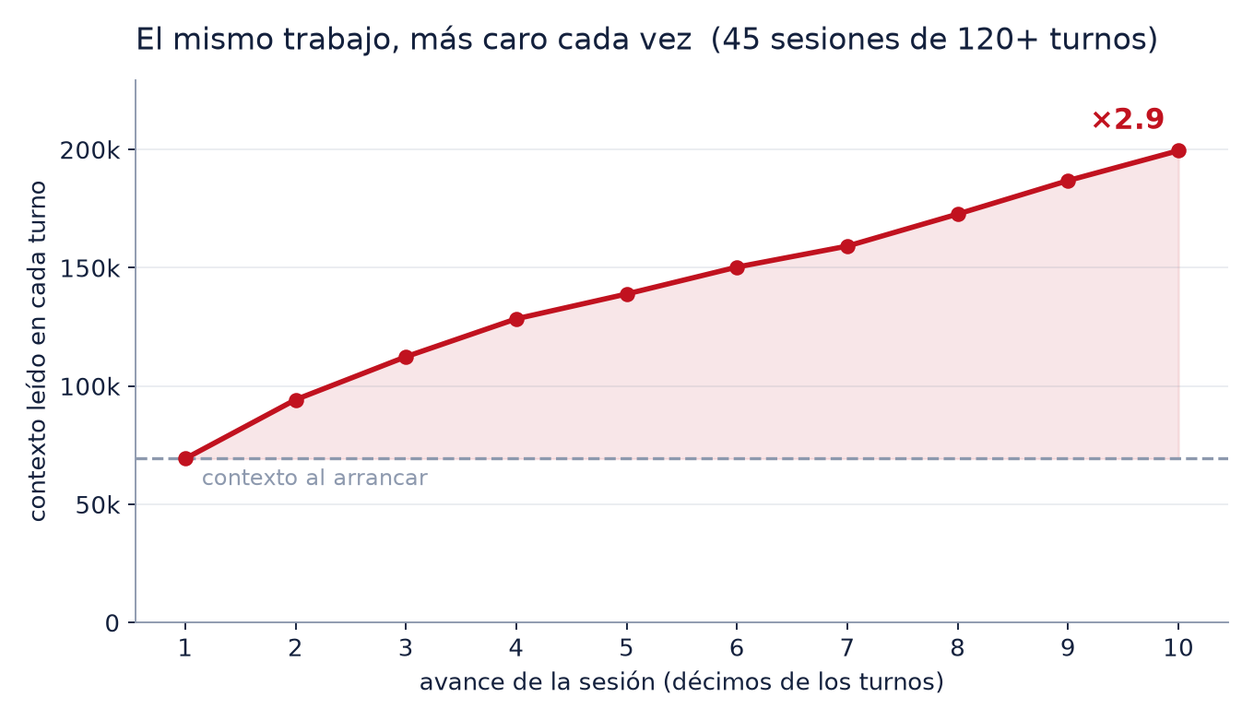
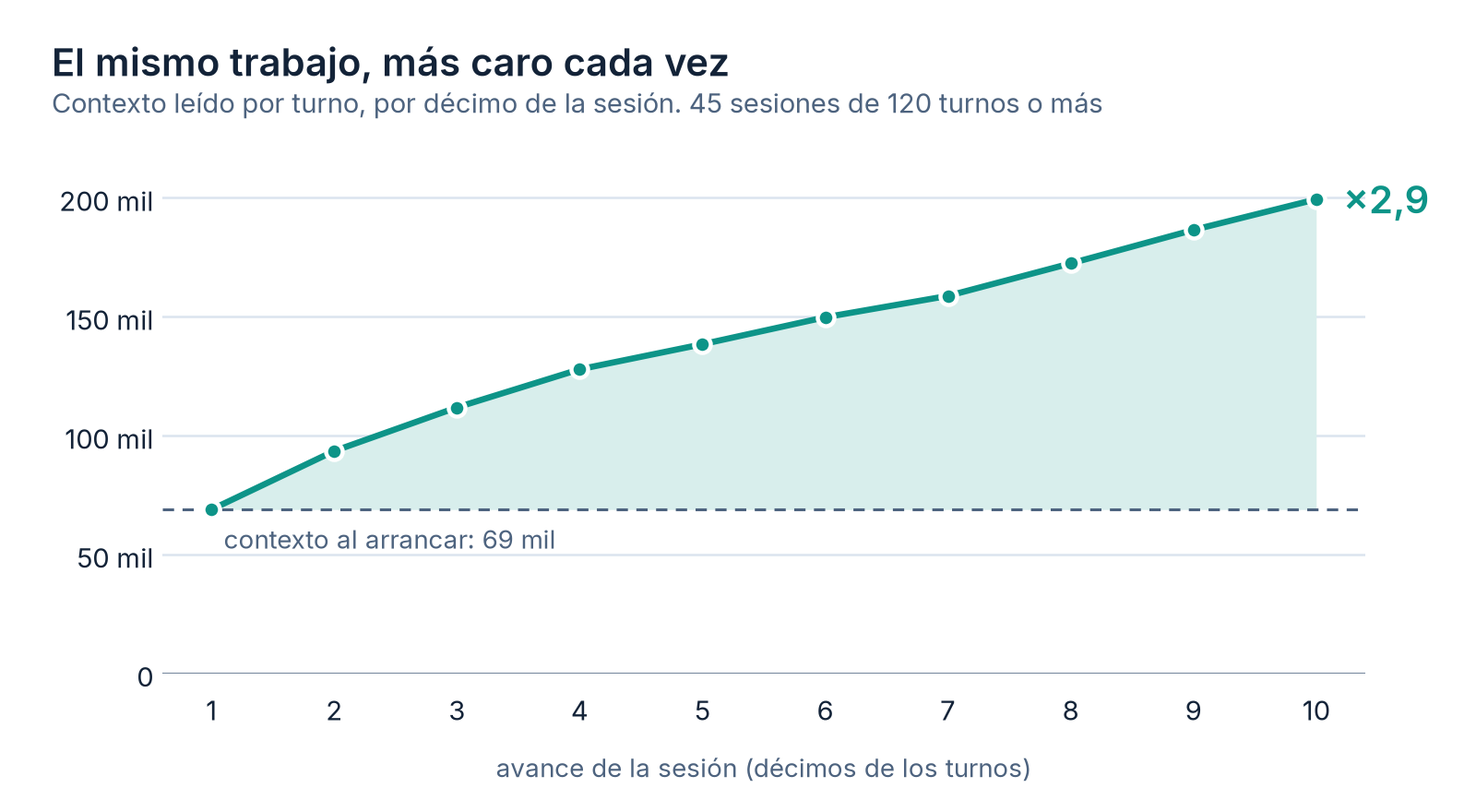
Rehace los graficos de economia de contexto y corrige lo que se lee sin el recuadro
Los cuatro graficos pasan al estilo de la segunda parte (Inter, coma decimal, version oscura
con <picture>). Los transcripts de agosto ya no existen: curva y deriva se digitalizaron desde
los PNG publicados (313 puntos; su ajuste da 1,206 y R2 0,974) y la procedencia queda en
_graficos/economia_contexto_datos.json.

Texto: el recuadro de correccion ya no dice que ninguna conclusion cambio, la respuesta sobre
cortar sesiones remite a la medicion de septiembre, las descripciones para buscadores y redes
dejan de citar el total inflado y se corrige el alt del grafico de arrastre.

diff --git a/articulos/economia-de-contexto/index.html b/articulos/economia-de-contexto/index.html
@@ -4,9 +4,9 @@
 <meta charset="utf-8">
 <meta name="viewport" content="width=device-width, initial-scale=1">
 <title>Lo caro de un agente no es lo que hace, es lo que recuerda | Tomás Alcalde</title>
-<meta name="description" content="313 sesiones, 2.356 millones de tokens: el 94 % del gasto es releer contexto. Cómo reducir el contexto y ahorrar tokens sin perder memoria.">
+<meta name="description" content="Cuatro meses de trabajo real con un agente de código: más del 90 % del gasto es releer contexto ya acumulado. Cómo reducirlo sin perder memoria.">
 <meta property="og:title" content="Lo caro de un agente no es lo que hace, es lo que recuerda">
-<meta property="og:description" content="313 sesiones, 2.356 millones de tokens: el 94 % del gasto es releer contexto. Cómo reducir el contexto y ahorrar tokens sin perder memoria.">
+<meta property="og:description" content="Cuatro meses de trabajo real con un agente de código: más del 90 % del gasto es releer contexto ya acumulado. Cómo reducirlo sin perder memoria.">
 <meta property="og:type" content="article">
 <link rel="alternate" hreflang="es" href="https://talcaldeg.github.io/articulos/economia-de-contexto/">
 <link rel="alternate" hreflang="en" href="https://talcaldeg.github.io/articulos/context-economy/">
@@ -23,7 +23,7 @@
 <meta property="article:author" content="Tomás Alcalde">
 <meta name="twitter:card" content="summary_large_image">
 <meta name="twitter:title" content="Lo caro de un agente no es lo que hace, es lo que recuerda">
-<meta name="twitter:description" content="313 sesiones y 2.356 millones de tokens de trabajo real con un agente de código: el 94 % del gasto es releer contexto ya acumulado.">
+<meta name="twitter:description" content="Cuatro meses de trabajo real con un agente de código: más del 90 % del gasto es releer contexto ya acumulado.">
 <meta name="twitter:image" content="https://talcaldeg.github.io/articulos/economia-de-contexto/img/reparto.png">
 <link rel="icon" href="/favicon.svg" type="image/svg+xml">
 <link rel="apple-touch-icon" href="/apple-touch-icon.png">
@@ -33,7 +33,7 @@
  "@context": "https://schema.org",
  "@type": "TechArticle",
  "headline": "Lo caro de un agente no es lo que hace, es lo que recuerda",
- "description": "313 sesiones y 2.356 millones de tokens de trabajo real con un agente de código: el 94 % del gasto es releer contexto ya acumulado.",
+ "description": "Cuatro meses de trabajo real con un agente de código: más del 90 % del gasto es releer contexto ya acumulado.",
  "inLanguage": "es",
  "url": "https://talcaldeg.github.io/articulos/economia-de-contexto/",
  "mainEntityOfPage": {
@@ -91,7 +91,7 @@
    "name": "¿Conviene cortar la sesión y abrir otra, o seguir en la misma?",
    "acceptedAnswer": {
     "@type": "Answer",
-    "text": "Conviene cortar. El costo por sesión crece con los turnos elevado a 1,20 (ajuste sobre 313 sesiones, R² 0,97), así que partir una sesión larga en diez ahorra alrededor de un tercio. Ojo con la regla que circula de que el crecimiento es cuadrático: con exponente 2 el ahorro daría 90 %, y contra datos reales el exponente no da 2."
+    "text": "Depende de cuánto duren sus sesiones. El costo por sesión crece con los turnos elevado a 1,20 (ajuste sobre 313 sesiones, R² 0,97): con sesiones de cientos de turnos, como las de esta medición, partirlas ahorraba alrededor de un tercio. Con sesiones ya cortas la cuenta se da vuelta, porque cada sesión nueva vuelve a escribir en caché el prefijo de instrucciones: en la medición de septiembre, cortar a mitad de tarea salió entre -2,7 % y -0,6 %. Ojo también con la regla que circula de que el crecimiento es cuadrático: con exponente 2 el ahorro daría 90 %, y contra datos reales el exponente no da 2."
    }
   },
   {
@@ -99,7 +99,7 @@
    "name": "¿El caché de prompts no resuelve el problema?",
    "acceptedAnswer": {
     "@type": "Answer",
-    "text": "Lo abarata, no lo elimina. En la medición, el 94 % de los 2.356 millones de tokens es cache_read: contexto que ya estaba ahí y se vuelve a leer en cada turno. El caché baja el precio unitario, pero no cambia que la cantidad crece sola mientras usted trabaja."
+    "text": "Lo abarata, no lo elimina. En la medición, el 94 % de los tokens medidos es cache_read: contexto que ya estaba ahí y se vuelve a leer en cada turno. El caché baja el precio unitario, pero no cambia que la cantidad crece sola mientras usted trabaja."
    }
   },
   {
@@ -167,8 +167,8 @@
        padding:1px 6px; font-size:14.5px; font-family:ui-monospace,SFMono-Regular,Menlo,Consolas,monospace}
 
   figure{margin:30px 0 34px}
-  figure img{width:100%; display:block; background:#fff; border:1px solid var(--line);
-             border-radius:12px; padding:10px}
+  figure img{width:100%; height:auto; display:block; background:var(--card); border:1px solid var(--line);
+             border-radius:12px}
   figcaption{color:var(--muted); font-size:14px; margin-top:10px; line-height:1.55}
 
   .destacado{background:var(--card); border:1px solid var(--line); border-left:3px solid var(--accent);
@@ -210,8 +210,10 @@
 <div class="destacado"><p><strong>Corrección, septiembre de 2026.</strong> Los scripts con que
 medí este artículo contaban cada llamada al modelo cerca de 1,9 veces. Con el conteo corregido,
 la misma ventana da 294 sesiones, 1.212 millones de tokens, 96 % de relectura y un exponente de
-1,19. Los totales se parten por la mitad; las conclusiones no cambian. El detalle, y lo que
-medí después, está en <a href="../palancas-chicas/">la segunda parte</a>.</p></div>
+1,19. Los totales se parten por la mitad y el diagnóstico se mantiene. Lo que sí cambió fue la
+recomendación de cortar sesiones: un mes después, con sesiones ya cortas, cortar a mitad de tarea
+salió negativo. El detalle, y lo que medí después, está en <a href="../palancas-chicas/">la segunda
+parte</a>.</p></div>
 
 <p>La cuenta empezó a doler antes de que yo entendiera por qué. El trabajo era el mismo de
 siempre: consultas a una base de producción, reportes, algo de automatización, correo. Nada
@@ -238,8 +240,11 @@ De 2.356 millones de tokens, lo que el modelo escribió (el código, las respues
 análisis) fueron 19 millones. Menos del uno por ciento.</p>
 
 <figure>
-  <img src="img/reparto.png" alt="Barra apilada: 94,4 % releer contexto acumulado, 4,8 % contexto nuevo, 0,8 % output.">
-  <figcaption>Los 2.356 millones de tokens repartidos por tipo. La franja roja es
+  <picture>
+    <source srcset="img/reparto-oscuro.png" media="(prefers-color-scheme: dark)">
+    <img src="img/reparto.png" width="1600" height="550" loading="lazy" alt="Barra apilada: 94,4 % releer contexto acumulado, 4,8 % contexto nuevo, 0,8 % output.">
+  </picture>
+  <figcaption>Los 2.356 millones de tokens repartidos por tipo. La franja en color es
   <code>cache_read</code>: contexto que ya estaba ahí y se vuelve a leer en cada turno.</figcaption>
 </figure>
 
@@ -255,7 +260,10 @@ que la cantidad crece sola mientras usted trabaja.</p>
 partí cada una en diez tramos iguales y promedié cuánto contexto leyó el modelo en cada tramo.</p>
 
 <figure>
-  <img src="img/deriva.png" alt="Curva creciente: el contexto por turno pasa de 69k en el primer décimo a 200k en el último.">
+  <picture>
+    <source srcset="img/deriva-oscuro.png" media="(prefers-color-scheme: dark)">
+    <img src="img/deriva.png" width="1600" height="880" loading="lazy" alt="Curva creciente: el contexto por turno pasa de 69 mil tokens en el primer décimo a 200 mil en el último.">
+  </picture>
   <figcaption>Contexto leído en cada turno, según el avance de la sesión. Promedio de 45 sesiones
   largas. El último tramo cuesta 2,9 veces lo que el primero, haciendo el mismo tipo de trabajo.</figcaption>
 </figure>
@@ -277,7 +285,10 @@ Una sesión de 300 turnos debería costar cinco veces lo que cuestan cuatro sesi
 <p>Al ajustar la curva contra las 313 sesiones reales, el exponente no dio 2. Dio 1,20.</p>
 
 <figure>
-  <img src="img/curva.png" alt="Dispersión log-log de tokens por sesión contra turnos, con ajuste de exponente 1,20 y R² 0,97.">
+  <picture>
+    <source srcset="img/curva-oscuro.png" media="(prefers-color-scheme: dark)">
+    <img src="img/curva.png" width="1600" height="1080" loading="lazy" alt="Dispersión log-log de tokens por sesión contra turnos, con ajuste de exponente 1,20 y R² 0,97.">
+  </picture>
   <figcaption>Cada punto es una sesión. En escala logarítmica una potencia se ve como una recta:
   la pendiente es el exponente. Ajuste sobre 313 sesiones, R² 0,97.</figcaption>
 </figure>
@@ -312,7 +323,10 @@ llamo <strong>arrastre</strong>, y ordenar por esa columna en vez de por tamaño
 completo el ranking de culpables.</p>
 
 <figure>
-  <img src="img/arrastre.png" alt="Barras horizontales: leer archivos enteros 54 %, comandos de shell 28 %, conectores 6 % y 5 %, resto 3 %, búsqueda filtrada 2 %.">
+  <picture>
+    <source srcset="img/arrastre-oscuro.png" media="(prefers-color-scheme: dark)">
+    <img src="img/arrastre.png" width="1600" height="780" loading="lazy" alt="Barras horizontales: leer archivos enteros 54 %, comandos de shell 28 %, web y otros conectores 7 %, conectores de correo y documentos 6 %, resto 3 %, búsqueda filtrada 2 %.">
+  </picture>
   <figcaption>380 millones de tokens de arrastre en la ventana medida, repartidos por tipo de llamada.
   Leer archivos completos se lleva más de la mitad.</figcaption>
 </figure>
@@ -421,10 +435,10 @@ instrucciones. Se trata de decidir, con criterio y a veces con dolor, qué es lo
 <p>Cuatro medidas, en orden de cuánto rindieron: abrir una sesión nueva al cambiar de tema; mandar las salidas grandes a un archivo en vez de a la conversación; buscar con <code>grep</code> y leer el rango exacto en lugar de abrir archivos completos; y filtrar lo que entra al contexto <em>antes</em> de traerlo, no resumirlo después. Reemplazar un conector de correo por un lector local filtrado bajó de 2.730 a 258 tokens el mismo dato en pantalla.</p>
 
 <h3>¿Conviene cortar la sesión y abrir otra, o seguir en la misma?</h3>
-<p>Conviene cortar. El costo por sesión crece con los turnos elevado a 1,20 (ajuste sobre 313 sesiones, R² 0,97), así que partir una sesión larga en diez ahorra alrededor de un tercio. Ojo con la regla que circula de que el crecimiento es cuadrático: con exponente 2 el ahorro daría 90 %, y contra datos reales el exponente no da 2.</p>
+<p>Depende de cuánto duren sus sesiones. El costo por sesión crece con los turnos elevado a 1,20 (ajuste sobre 313 sesiones, R² 0,97): con sesiones de cientos de turnos, como las de esta medición, partirlas ahorraba alrededor de un tercio. Con sesiones ya cortas la cuenta se da vuelta, porque cada sesión nueva vuelve a escribir en caché el prefijo de instrucciones: en <a href="../palancas-chicas/">la medición de septiembre</a>, cortar a mitad de tarea salió entre -2,7 % y -0,6 %. Ojo también con la regla que circula de que el crecimiento es cuadrático: con exponente 2 el ahorro daría 90 %, y contra datos reales el exponente no da 2.</p>
 
 <h3>¿El caché de prompts no resuelve el problema?</h3>
-<p>Lo abarata, no lo elimina. En la medición, el 94 % de los 2.356 millones de tokens es <code>cache_read</code>: contexto que ya estaba ahí y se vuelve a leer en cada turno. El caché baja el precio unitario, pero no cambia que la cantidad crece sola mientras usted trabaja.</p>
+<p>Lo abarata, no lo elimina. En la medición, el 94 % de los tokens medidos es <code>cache_read</code>: contexto que ya estaba ahí y se vuelve a leer en cada turno. El caché baja el precio unitario, pero no cambia que la cantidad crece sola mientras usted trabaja.</p>
 
 <h3>¿Los archivos de memoria del agente ayudan o encarecen?</h3>
 <p>Ambas cosas, y hay que medirlo. Leer archivos completos se lleva el 54 % del arrastre, y buena parte no eran archivos de código sino las notas de memoria del propio agente: cada vez que una se vuelve relevante se carga entera, y las que habían crecido sin control pasaban de 9 mil tokens cada una. Conviene partirlas en secciones y leer solo la que sirve.</p>

diff --git a/articulos/context-economy/index.html b/articulos/context-economy/index.html
@@ -4,9 +4,9 @@
 <meta charset="utf-8">
 <meta name="viewport" content="width=device-width, initial-scale=1">
 <title>What makes an agent expensive is not what it does, it is what it remembers | Tomás Alcalde</title>
-<meta name="description" content="313 sessions and 2.36 billion tokens of real work with a coding agent: 94 % of the spend is re-reading context that is already there. The numbers, the charts and the pattern that cuts it.">
+<meta name="description" content="Four months of real work with a coding agent: over 90 % of the spend is re-reading context that is already there. The numbers, the charts and the pattern that cuts it.">
 <meta property="og:title" content="What makes an agent expensive is not what it does, it is what it remembers">
-<meta property="og:description" content="313 sessions and 2.36 billion tokens of real work: 94 % of the spend is re-reading context that is already there.">
+<meta property="og:description" content="Four months of real work with a coding agent: over 90 % of the spend is re-reading context that is already there.">
 <meta property="og:type" content="article">
 <link rel="alternate" hreflang="es" href="https://talcaldeg.github.io/articulos/economia-de-contexto/">
 <link rel="alternate" hreflang="en" href="https://talcaldeg.github.io/articulos/context-economy/">
@@ -23,7 +23,7 @@
 <meta property="article:author" content="Tomás Alcalde">
 <meta name="twitter:card" content="summary_large_image">
 <meta name="twitter:title" content="What makes an agent expensive is not what it does, it is what it remembers">
-<meta name="twitter:description" content="313 sessions and 2.36 billion tokens of real work with a coding agent: 94 % of the spend is re-reading context that is already there.">
+<meta name="twitter:description" content="Four months of real work with a coding agent: over 90 % of the spend is re-reading context that is already there.">
 <meta name="twitter:image" content="https://talcaldeg.github.io/articulos/context-economy/img/reparto.png">
 <link rel="icon" href="/favicon.svg" type="image/svg+xml">
 <link rel="apple-touch-icon" href="/apple-touch-icon.png">
@@ -33,7 +33,7 @@
  "@context": "https://schema.org",
  "@type": "TechArticle",
  "headline": "What makes an agent expensive is not what it does, it is what it remembers",
- "description": "313 sessions and 2.36 billion tokens of real work with a coding agent: 94 % of the spend is re-reading context that is already there.",
+ "description": "Four months of real work with a coding agent: over 90 % of the spend is re-reading context that is already there.",
  "inLanguage": "en",
  "url": "https://talcaldeg.github.io/articulos/context-economy/",
  "mainEntityOfPage": {
@@ -91,7 +91,7 @@
    "name": "Is it better to end the session and open a new one, or keep going?",
    "acceptedAnswer": {
     "@type": "Answer",
-    "text": "Better to end it. Cost per session grows with turns raised to 1.20 (fit over 313 sessions, R² 0.97), so splitting one long session into ten saves around a third. Beware the rule of thumb that growth is quadratic: an exponent of 2 would promise 90 %, and against real data the exponent is not 2."
+    "text": "It depends on how long your sessions run. Cost per session grows with turns raised to 1.20 (fit over 313 sessions, R² 0.97): with sessions of hundreds of turns, like the ones in this measurement, splitting them saved around a third. With sessions that are already short the sum flips, because every new session writes the instruction prefix to the cache again: in the September measurement, cutting mid-task came out between -2.7 % and -0.6 %. Also beware the rule of thumb that growth is quadratic: an exponent of 2 would promise 90 %, and against real data the exponent is not 2."
    }
   },
   {
@@ -99,7 +99,7 @@
    "name": "Does prompt caching not solve this?",
    "acceptedAnswer": {
     "@type": "Answer",
-    "text": "It makes it cheaper, it does not remove it. In the measurement, 94 % of the 2.36 billion tokens is cache_read: context that was already there and gets read again every turn. Caching lowers the unit price, but it does not change the fact that the volume grows on its own while you work."
+    "text": "It makes it cheaper, it does not remove it. In the measurement, 94 % of the tokens measured is cache_read: context that was already there and gets read again every turn. Caching lowers the unit price, but it does not change the fact that the volume grows on its own while you work."
    }
   },
   {
@@ -166,8 +166,8 @@
        padding:1px 6px; font-size:14.5px; font-family:ui-monospace,SFMono-Regular,Menlo,Consolas,monospace}
 
   figure{margin:30px 0 34px}
-  figure img{width:100%; display:block; background:#fff; border:1px solid var(--line);
-             border-radius:12px; padding:10px}
+  figure img{width:100%; height:auto; display:block; background:var(--card); border:1px solid var(--line);
+             border-radius:12px}
   figcaption{color:var(--muted); font-size:14px; margin-top:10px; line-height:1.55}
 
   .destacado{background:var(--card); border:1px solid var(--line); border-left:3px solid var(--accent);
@@ -207,9 +207,10 @@
 
 <div class="destacado"><p><strong>Correction, September 2026.</strong> The scripts behind this
 article counted each model call about 1.9 times. With the corrected count, the same window gives
-294 sessions, 1,212 million tokens, 96 % re-reading and an exponent of 1.19. The totals halve;
-the conclusions do not change. The details, and what I measured afterwards, are in
-<a href="../small-levers/">the second part</a>.</p></div>
+294 sessions, 1,212 million tokens, 96 % re-reading and an exponent of 1.19. The totals halve
+and the diagnosis holds. What did change was the advice to cut sessions: a month later, with
+sessions already short, cutting mid-task came out negative. The details, and what I measured
+afterwards, are in <a href="../small-levers/">the second part</a>.</p></div>
 
 <p>The bill started to hurt before I understood why. The work was the usual: queries against a
 production database, reports, some automation, email. Nothing that sounded expensive. But the
@@ -236,8 +237,11 @@ the other way around. Out of 2.36 billion tokens, what the model wrote (the code
 the analysis) came to 19 million. Less than one percent.</p>
 
 <figure>
-  <img src="img/reparto.png" alt="Stacked bar: 94.4 % re-reading accumulated context, 4.8 % new context, 0.8 % output.">
-  <figcaption>The 2.36 billion tokens split by type. The red band is <code>cache_read</code>:
+  <picture>
+    <source srcset="img/reparto-oscuro.png" media="(prefers-color-scheme: dark)">
+    <img src="img/reparto.png" width="1600" height="550" loading="lazy" alt="Stacked bar: 94.4 % re-reading accumulated context, 4.8 % new context, 0.8 % output.">
+  </picture>
+  <figcaption>The 2.36 billion tokens split by type. The coloured band is <code>cache_read</code>:
   context that was already there and gets read again on every turn.</figcaption>
 </figure>
 
@@ -254,7 +258,10 @@ turns, split each one into ten equal stretches, and averaged how much context th
 each stretch.</p>
 
 <figure>
-  <img src="img/deriva.png" alt="Rising curve: context per turn goes from 69k in the first tenth to 200k in the last.">
+  <picture>
+    <source srcset="img/deriva-oscuro.png" media="(prefers-color-scheme: dark)">
+    <img src="img/deriva.png" width="1600" height="880" loading="lazy" alt="Rising curve: context per turn goes from 69k in the first tenth to 200k in the last.">
+  </picture>
   <figcaption>Context read on each turn, by progress through the session. Average of 45 long
   sessions. The last stretch costs 2.9 times the first one, doing the same kind of work.</figcaption>
 </figure>
@@ -278,7 +285,10 @@ times what four 75-turn sessions cost.</p>
 It came out at 1.20.</p>
 
 <figure>
-  <img src="img/curva.png" alt="Log-log scatter of tokens per session against turns, with a fit of exponent 1.20 and R² 0.97.">
+  <picture>
+    <source srcset="img/curva-oscuro.png" media="(prefers-color-scheme: dark)">
+    <img src="img/curva.png" width="1600" height="1080" loading="lazy" alt="Log-log scatter of tokens per session against turns, with a fit of exponent 1.20 and R² 0.97.">
+  </picture>
   <figcaption>Each dot is a session. On a log scale a power law shows up as a straight line and
   the slope is the exponent. Fit over 313 sessions, R² 0.97.</figcaption>
 </figure>
@@ -311,7 +321,10 @@ more than a 100-thousand-token one on the last turn. I call that <strong>carry</
 sorting by that column instead of by size completely rearranges the list of culprits.</p>
 
 <figure>
-  <img src="img/arrastre.png" alt="Horizontal bars: reading whole files 54 %, shell commands 28 %, connectors 7 % and 5 %, the rest 3 %, filtered search 2 %.">
+  <picture>
+    <source srcset="img/arrastre-oscuro.png" media="(prefers-color-scheme: dark)">
+    <img src="img/arrastre.png" width="1600" height="780" loading="lazy" alt="Horizontal bars: reading whole files 54 %, shell commands 28 %, web and other connectors 7 %, mail and document connectors 6 %, the rest 3 %, filtered search 2 %.">
+  </picture>
   <figcaption>380 million tokens of carry over the window measured, split by type of call.
   Reading whole files takes more than half.</figcaption>
 </figure>
@@ -416,10 +429,10 @@ deliberately and sometimes painfully, what does <em>not</em> get in.</p>
 <p>Four measures, ordered by what they actually returned: start a new session when the topic changes; send large outputs to a file instead of into the conversation; use <code>grep</code> and read the exact range rather than opening whole files; and filter what enters the context <em>before</em> bringing it in, not by summarising it afterwards. Replacing a mail connector with a filtered local reader took the same on-screen data from 2,730 tokens down to 258.</p>
 
 <h3>Is it better to end the session and open a new one, or keep going?</h3>
-<p>Better to end it. Cost per session grows with turns raised to 1.20 (fit over 313 sessions, R² 0.97), so splitting one long session into ten saves around a third. Beware the rule of thumb that growth is quadratic: an exponent of 2 would promise 90 %, and against real data the exponent is not 2.</p>
+<p>It depends on how long your sessions run. Cost per session grows with turns raised to 1.20 (fit over 313 sessions, R² 0.97): with sessions of hundreds of turns, like the ones in this measurement, splitting them saved around a third. With sessions that are already short the sum flips, because every new session writes the instruction prefix to the cache again: in <a href="../small-levers/">the September measurement</a>, cutting mid-task came out between -2.7 % and -0.6 %. Also beware the rule of thumb that growth is quadratic: an exponent of 2 would promise 90 %, and against real data the exponent is not 2.</p>
 
 <h3>Does prompt caching not solve this?</h3>
-<p>It makes it cheaper, it does not remove it. In the measurement, 94 % of the 2.36 billion tokens is <code>cache_read</code>: context that was already there and gets read again every turn. Caching lowers the unit price, but it does not change the fact that the volume grows on its own while you work.</p>
+<p>It makes it cheaper, it does not remove it. In the measurement, 94 % of the tokens measured is <code>cache_read</code>: context that was already there and gets read again every turn. Caching lowers the unit price, but it does not change the fact that the volume grows on its own while you work.</p>
 
 <h3>Do the agent's memory files help, or do they cost?</h3>
 <p>Both, and it has to be measured. Reading whole files accounts for 54 % of the carry, and much of it was not source code but the agent's own memory notes: each one loads in full whenever it becomes relevant, and the ones left to grow unchecked were over 9 thousand tokens each. Split them into sections and read only the section you need.</p>

diff --git a/_graficos/economia_contexto.py b/_graficos/economia_contexto.py
@@ -20,6 +20,8 @@ from matplotlib.transforms import offset_copy
 
 from palancas_chicas import ANCHO, DPI, RAIZ, TEMAS, Lienzo, ancho_etiquetas, mezclar, num
 
+plt.rcParams.update({"mathtext.fontset": "custom", "mathtext.rm": "Inter", "mathtext.it": "Inter"})
+
 DATOS = json.loads((RAIZ / "_graficos" / "economia_contexto_datos.json").read_text(encoding="utf-8"))
 
 TXT = {
@@ -37,7 +39,7 @@ TXT = {
         mil=lambda v: "0" if v == 0 else f"{v // 1000:.0f} mil",
         cu_tit="Una sesión el doble de larga cuesta 2,3 veces, no 4",
         cu_sub="Tokens por sesión contra turnos, escala logarítmica. Cada punto es una de las 313 sesiones",
-        cu_ajuste="costo ∝ turnos^{b}  ·  R² {r2}",
+        cu_ajuste=r"costo $\propto$ turnos$^{{{b}}}$   ·   R² {r2}",
         cu_lineal="si cada turno costara lo mismo",
         cu_x="turnos de la sesión (llamadas al modelo)",
         cu_y=["100 mil", "1 M", "10 M", "100 M"],
@@ -61,7 +63,7 @@ TXT = {
         mil=lambda v: "0" if v == 0 else f"{v // 1000:.0f}k",
         cu_tit="A session twice as long costs 2.3 times as much, not 4",
         cu_sub="Tokens per session against turns, log scale. Each dot is one of the 313 sessions",
-        cu_ajuste="cost ∝ turns^{b}  ·  R² {r2}",
+        cu_ajuste=r"cost $\propto$ turns$^{{{b}}}$   ·   R² {r2}",
         cu_lineal="if every turn cost the same",
         cu_x="turns in the session (calls to the model)",
         cu_y=["100k", "1M", "10M", "100M"],
@@ -82,7 +84,7 @@ def decimal(v, idioma, dec):
 def reparto(t, L, idioma, destino):
     pct = DATOS["reparto"]["pct"]
     colores = [t["acento"], t["neutro"], t["suave"]]
-    c = Lienzo(t, 2.9, 56, L["re_tit"], L["re_sub"], abajo=150, der=56)
+    c = Lienzo(t, 2.75, 56, L["re_tit"], L["re_sub"], abajo=120, der=56)
     ax = c.ax
     ax.set_xlim(0, 100); ax.set_ylim(1, -0.62)
     ax.set_xticks([]); ax.set_yticks([])
@@ -108,7 +110,7 @@ def deriva(t, L, idioma, destino):
     n = len(m)
     etq = [L["mil"](v) for v in range(0, 200001, 50000)]
     izq = 56 + ancho_etiquetas(etq) + 18
-    c = Lienzo(t, 4.4, izq, L["de_tit"], L["de_sub"], abajo=110, der=90)
+    c = Lienzo(t, 4.4, izq, L["de_tit"], L["de_sub"], abajo=150, der=120)
     ax = c.ax
     xs = list(range(1, n + 1))
     ax.set_xlim(0.6, n + 0.4); ax.set_ylim(0, 225000)
@@ -133,7 +135,7 @@ def curva(t, L, idioma, destino):
     xs = [p[0] for p in d["puntos"]]
     ys = [p[1] for p in d["puntos"]]
     izq = 56 + ancho_etiquetas(L["cu_y"]) + 18
-    c = Lienzo(t, 5.4, izq, L["cu_tit"], L["cu_sub"], abajo=110, der=40)
+    c = Lienzo(t, 5.4, izq, L["cu_tit"], L["cu_sub"], abajo=150, der=40)
     ax = c.ax
     ax.set_xscale("log"); ax.set_yscale("log")
     ax.set_xlim(0.8, 800); ax.set_ylim(4e4, 1.6e8)
@@ -150,10 +152,14 @@ def curva(t, L, idioma, destino):
     ax.plot(finos, [k_lin * x for x in finos], color=t["suave"], lw=1.3, ls=(0, (4, 3)), zorder=3)
     b, k = d["recta_exponente"], d["recta_k"]
     ax.plot(finos, [k * x ** b for x in finos], color=t["acento"], lw=2.4, zorder=4)
-    rot = L["cu_ajuste"].format(b=decimal(d["exponente_publicado"], idioma, 2),
+    rot = L["cu_ajuste"].format(b=decimal(d["exponente_publicado"], idioma, 2).replace(",", "{,}"),
                                 r2=decimal(d["r2_publicado"], idioma, 2))
-    c.texto(1.2, 1.05e8, rot, color=t["acento"], fontweight="semibold", va="center")
-    c.texto(x1 * 0.93, k_lin * x1 * 0.62, L["cu_lineal"], color=t["suave"], ha="right", va="top", fontsize=10)
+    # Leyenda en la esquina vacía: muestra de línea y rótulo.
+    for y, color, estilo, ancho, et, peso in ((0.93, t["acento"], "-", 2.4, rot, "semibold"),
+                                             (0.855, t["suave"], (0, (4, 3)), 1.3, L["cu_lineal"], "normal")):
+        ax.plot([0.03, 0.08], [y, y], transform=ax.transAxes, color=color, ls=estilo, lw=ancho)
+        c.texto(0.1, y, et, transform=ax.transAxes, va="center", fontweight=peso,
+                color=color if peso == "semibold" else t["tinta"])
     ax.axhline(4e4, color=t["suave"], lw=0.9)
     ax.set_xlabel(L["cu_x"], color=t["suave"], fontsize=10, labelpad=10)
     c.guardar(destino)
